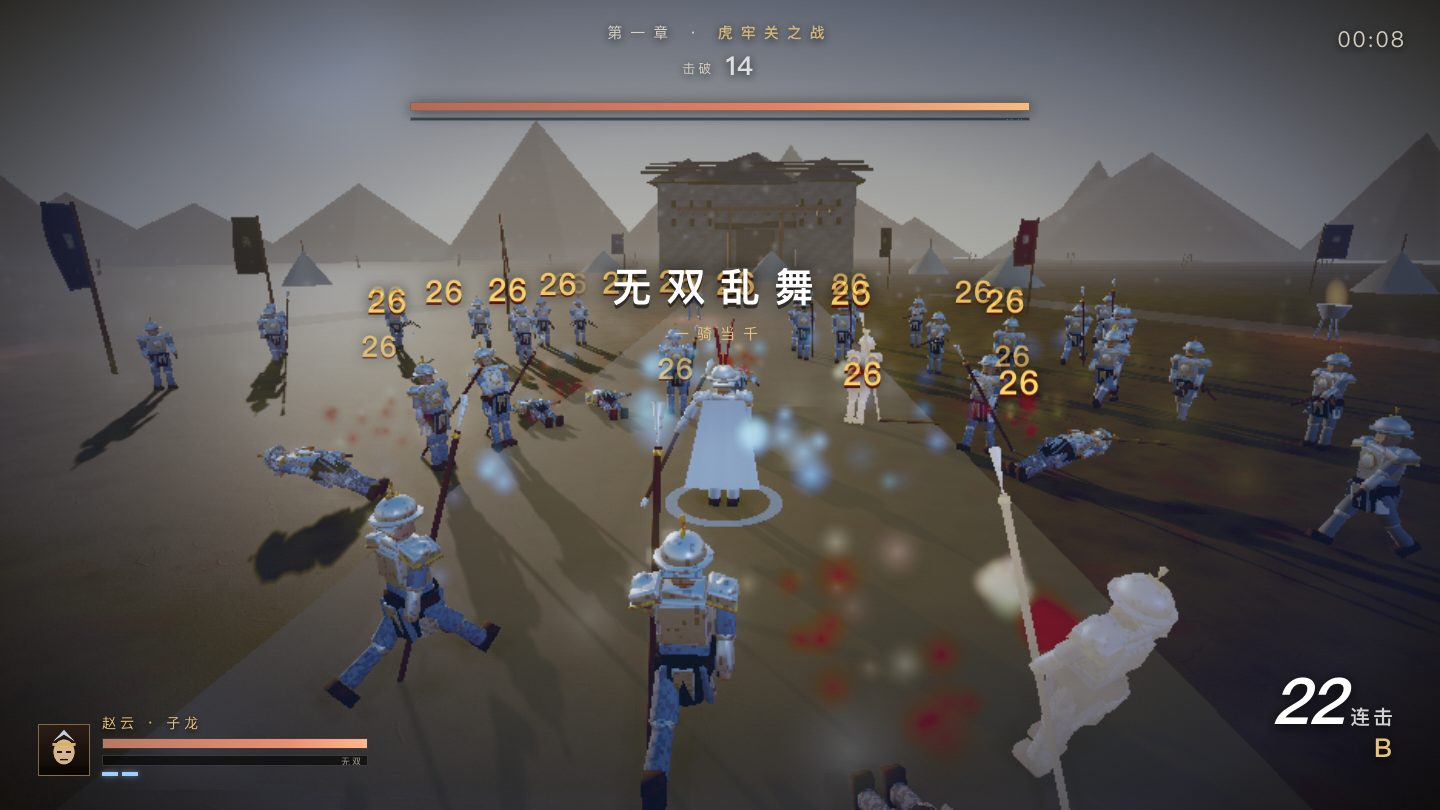
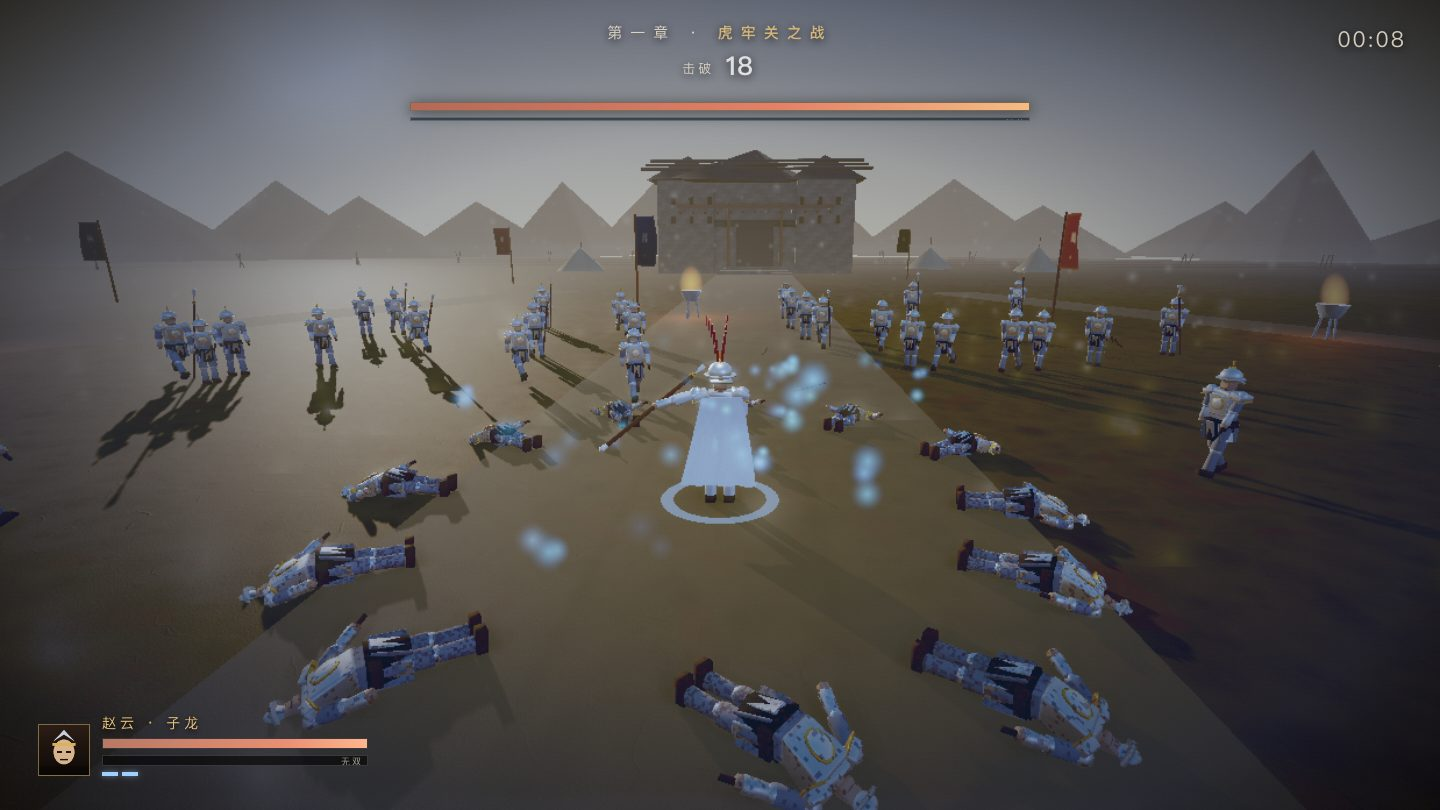
feat: 围攻阵型 D8（角色分工 + 侧翼弧线 + 弓兵齐射）
- 出生分配角色：dao→front（正面直推）、spear→flank（切向弧线绕行）、archer→back（12m 保持）
- 侧翼切向权重随距离收敛（tan = side*0.95*clamp((d-3.2)/5.5)），弧线绕到侧面再收拢
- updateVolley：≥3 名弓兵（8-18m、冷却完毕）同时进入 0.42s 抬弓前摇齐射，5.2s 一轮
- 修复：重构分支时误删近战攻击触发，导致无人攻击（由验收「站桩掉血」抓出）
- 实测：包围均匀度 0.077（1.0=堆一侧，0=均匀）；敌人恢复攻击 hp120→97
- 验收：18/18 + 14/14（P10 环境受限，保持率 0.99）

diff --git a/demos/index.html b/demos/index.html
@@ -2108,6 +2108,9 @@ function spawnEnemy(type, x, z, opt = {}) {
   s.state = 'chase'; s.t = 0; s.atkP = 0; s.cool = rand(.2, 1.4); s.phase = rand(0, TAU);
   s.flash = 0; s.tilt = 0; s.dead = false; s.deadT = 0; s.spawnT = 0;
   s.officer = !!opt.officer; s.name = opt.name || '';
+  /* 阵型角色：刀兵前排、枪兵侧翼、弓兵后排 */
+  s.role = opt.officer ? 'boss' : (type === 'archer' ? 'back' : (type === 'spear' ? 'flank' : 'front'));
+  s.side = Math.random() < .5 ? -1 : 1;
   s.tint.set(opt.tint ?? d.tint);
   if (opt.officer) s.tint.set(opt.tint || 0xd8b25a);
   return s;
@@ -2179,7 +2182,25 @@ function rebuildGrid() {
   }
 }
 
+function updateVolley(dt) {
+  const ready = [];
+  for (const s of E) {
+    if (!s.active || s.dead || s.type !== 'archer' || s.officer) continue;
+    const d = s.distToPlayer || 0;
+    if (s.state === 'chase' && s.cool <= 0 && d > 8 && d < 18) ready.push(s);
+  }
+  G.volleyT = (G.volleyT || 0) - dt;
+  if (G.volleyT > 0) return;
+  if (ready.length >= 3) {
+    for (const s of ready) { s.state = 'wind'; s.t = -0.42; s.cool = rand(2.2, 3.4); }
+    G.volleyT = 5.2;
+    callout('齐 射', '弓 兵');
+    SFX.drum(.9);
+  } else G.volleyT = 0.9;
+}
+
 function updateEnemies(dt) {
+  updateVolley(dt);
   const px = player.pos.x, pz = player.pos.z;
   rebuildGrid();
   for (let i = 0; i < MAXE; i++) {
@@ -2202,6 +2223,7 @@ function updateEnemies(dt) {
     s.cool -= dt;
     s.t += dt;
     const ox = s.pos.x, oz = s.pos.z;
+    s.distToPlayer = dist;
 
     /* 敌将技能：独立状态，带明显前摇 */
     if (s.state === 'skill') {
@@ -2294,9 +2316,10 @@ function updateEnemies(dt) {
         if (s.cool <= 0 && dist < s.range && dist > 4) {
           s.state = 'wind'; s.t = 0; s.cool = rand(1.8, 3.4);
         }
-      } else {
+      } else if (s.role === 'front' || s.officer) {
+        /* 前排：正面直推 */
         if (dist > s.range * .82) { mvx = nx; mvz = nz; }
-        else if (s.officer && s.skillCd <= 0 && dist < 7.5 && s.state === 'chase') {
+        else if (s.officer && s.skillCd <= 0 && dist < 7.5) {
           s.state = 'skill'; s.t = 0; s.atkP = 0; s.skillDone = false;
           s.cool = 1.2;
           callout(s.name, s.skillKind === 'charge' ? '突 击' : '横 扫');
@@ -2307,11 +2330,18 @@ function updateEnemies(dt) {
           s.strafeT -= dt;
           if (s.strafeT <= 0) { s.strafeT = rand(.6, 1.6); s.strafe *= -1; }
           mvx = -nz * s.strafe * .45; mvz = nx * s.strafe * .45;
-          if (s.cool <= 0 && attackTokens < MAX_TOKENS) {
-            s.state = 'wind'; s.t = 0; attackTokens++;
-            s.cool = rand(1.4, 2.8);
-          }
         }
+      } else {
+        /* 侧翼：中距离带切向分量，弧线绕到侧面再收拢 */
+        const tan = s.side * 0.95 * clamp((dist - 3.2) / 5.5, 0, 1);
+        mvx = nx - nz * tan; mvz = nz + nx * tan;
+      }
+
+      /* 近战：进入攻击距离且令牌可用就抬手 */
+      if (s.type !== 'archer' && !s.officer && s.cool <= 0 && dist < s.range * .92 && attackTokens < MAX_TOKENS) {
+        s.state = 'wind'; s.t = 0; attackTokens++;
+        s.cool = rand(1.4, 2.8);
+        continue;
       }
 
       const ml = Math.hypot(mvx, mvz);
@@ -3246,7 +3276,7 @@ function resetGame() {
   player.dashT = 0; player.dashCd = 0;
   player.dmgMul = 1; player.atkMul = 1; player.musouMul = 1; player.rangeMul = 1;
   player.poise = player.maxPoise; player.poiseT = 0; player.poiseRegen = 0;
-  player.airY = 0; player.vy = 0; player.airAtk = false; player.pos.y = 0;
+  player.airY = 0; player.vy = 0; player.airAtk = false; player.pos.y = 0; G.volleyT = 0;
   player.leech = 0; player.upgrades.length = 0; pendingUpgrades = []; G.offering = false;
   $('#upgrade').classList.add('hide');
   camYaw = 0; camPitch = 0.20;

diff --git a/README.md b/README.md
@@ -49,6 +49,9 @@ cd demos && python3 -m http.server 8000
   强化池 6 种：烈刃（伤害 +18%）/ 疾风（出招 +12%）/ 龙胆（无双槽 +25%）/ 横扫（范围 +15%）/ 铁壁（体力上限 +25 并回满）/ 嗜血（击破回 1.5）。
 - **锁定吸附**：锁定敌将时轻击/重击会把朝向拉到目标并小幅前移，显著减少 60 人混战里的挥空。
 - **格挡 / 弹反**：`Q` 按住减伤 80%（不进硬直、不断连击）；受击前 0.16 s 内按下为**精准弹反**——无伤 + 0.2 s 顿帧 + 震退面前敌人 + 无双槽 +8。
+- **围攻阵型**：每个杂兵出生时分配角色——刀兵**前排**（正面直推）、枪兵**侧翼**（中距离带切向分量，弧线绕到侧面再收拢）、
+  弓兵**后排**（保持 12 m，过近后撤）。实测 40 人 5 s 后包围均匀度 **0.077**（1.0 = 全堆一侧，0 = 均匀环绕）。
+- **弓兵齐射**：每约 5 s 组织一次，≥3 名弓兵同时进入 0.42 s 抬弓前摇后齐射，伴随喊话与鼓声。
 - **闪避派生**：闪避中按 `J` 出**闪避斩**——立即结束闪避、朝锁定目标突进 13 m/s、造成 1.15 倍伤害（stage 2 基础 34 → 约 39）。
   闪避**前 0.14 s** 内被击中触发**完美闪避**：无伤 + 0.4 s 子弹时间 + 无双槽 +8 + **返还闪避 CD**。
 - **跳跃 / 空中攻击**：起跳 7.6 m/s、重力 24 m/s²（滞空约 0.67 s、最高 1.13 m）；空中按 `J` 进入下坠斩，落地造成范围伤害并掀尘。
